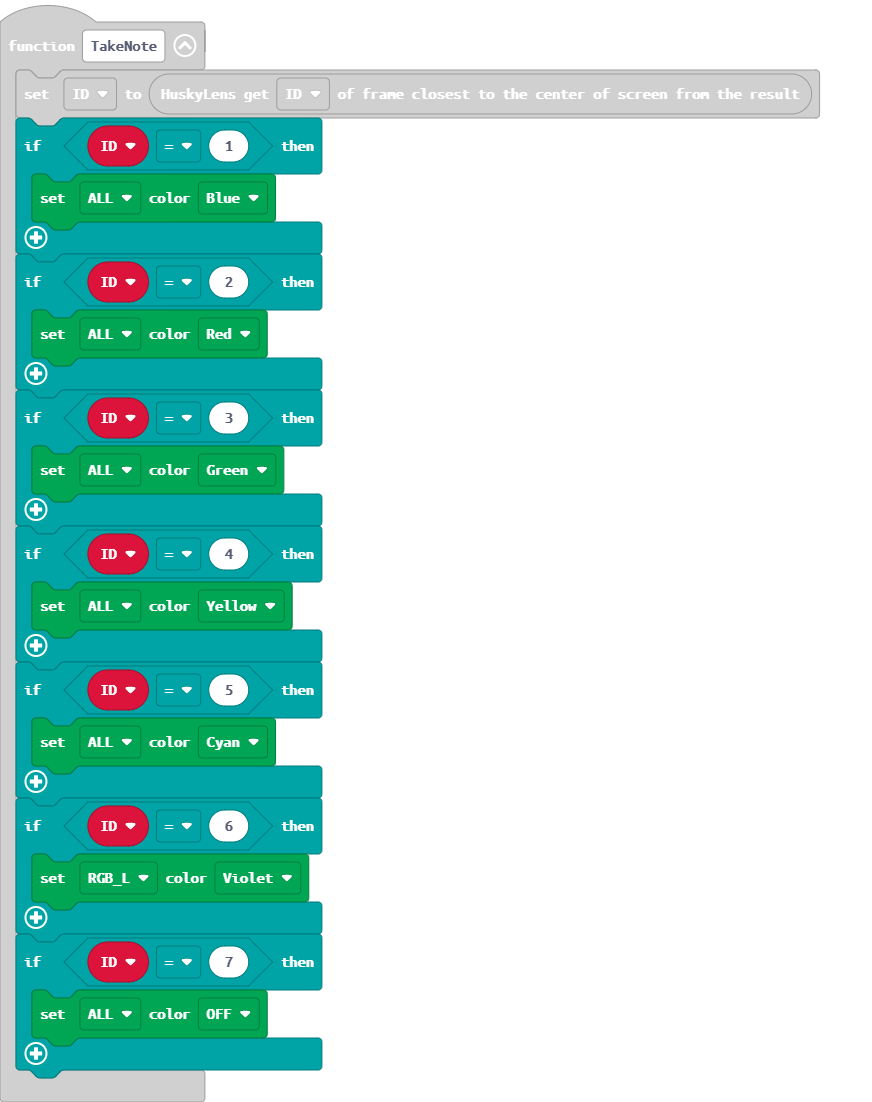
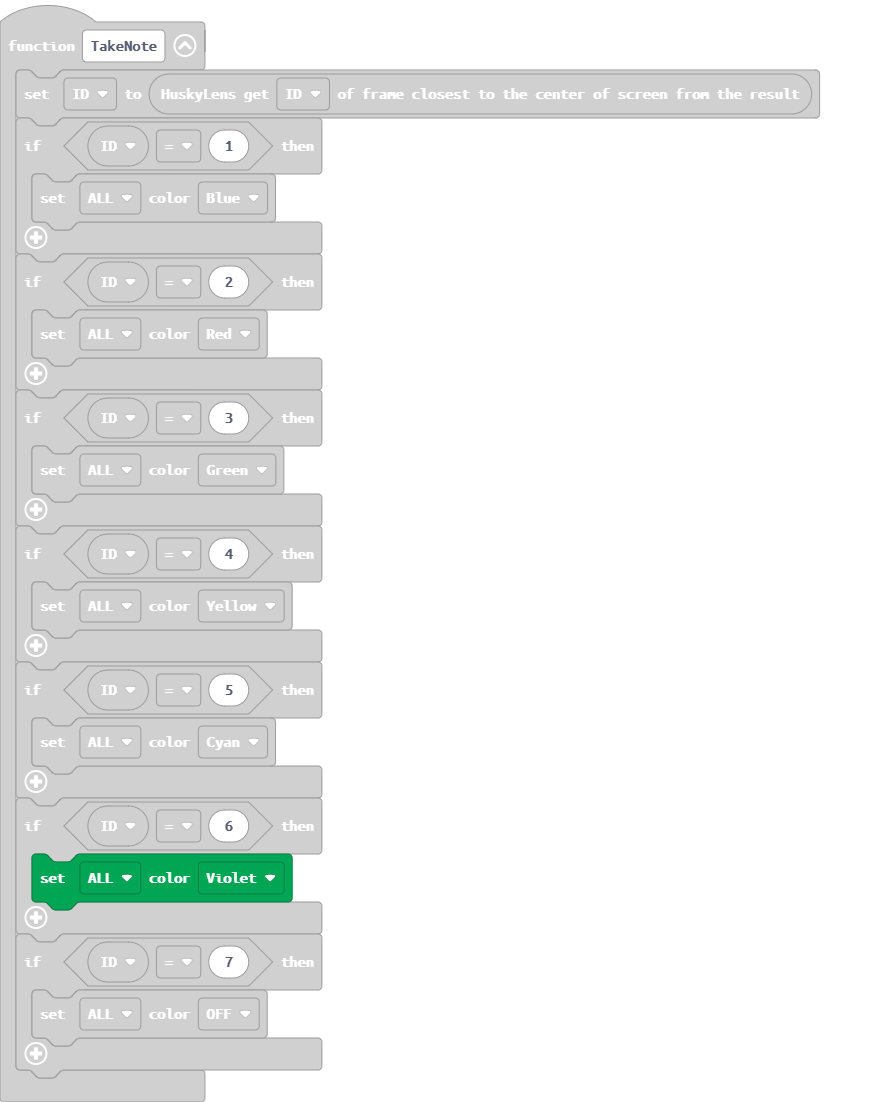
Update main.blocks, main.ts

Changed region(s): [[0.0, 0.0926, 0.3716, 0.9873]]

diff --git a/main.ts b/main.ts
@@ -16,7 +16,7 @@ function TakeNote () {
         DFRobotMaqueenPlus.setRGBLight(RGBLight.RGBA, Color.CYAN)
     }
     if (ID == 6) {
-        DFRobotMaqueenPlus.setRGBLight(RGBLight.RGBL, Color.PINK)
+        DFRobotMaqueenPlus.setRGBLight(RGBLight.RGBA, Color.PINK)
     }
     if (ID == 7) {
         DFRobotMaqueenPlus.setRGBLight(RGBLight.RGBA, Color.OFF)
